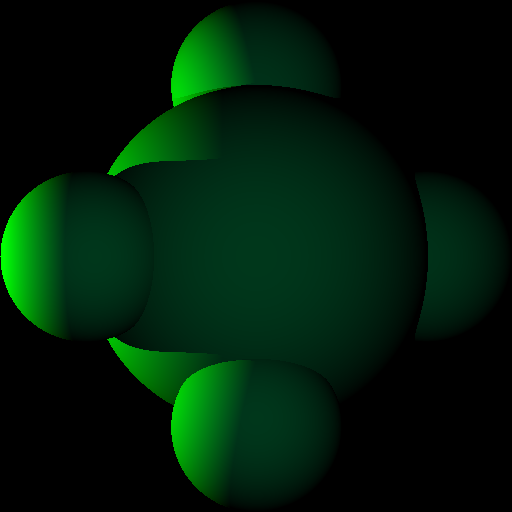
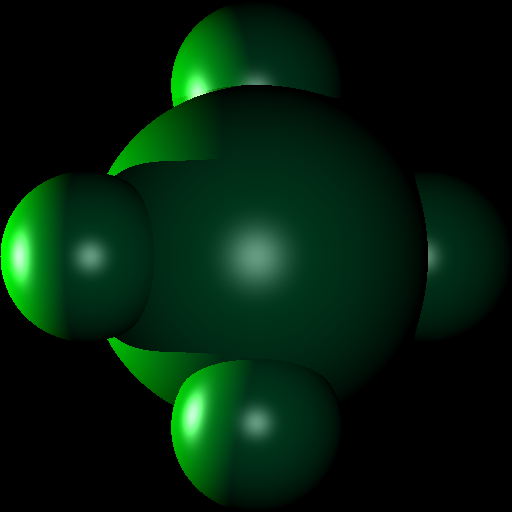
add specular lighting

diff --git a/src/org/krummelur/raytracer/Renderer.java b/src/org/krummelur/raytracer/Renderer.java
@@ -8,7 +8,7 @@ import java.io.IOException;
 
 public class Renderer {
 
-    private final double epsilon = 0.0001;
+    private final double epsilon = 0.00001;
     World world;
     int resolutionX = 512;
     int resolutionY = 512;
@@ -21,58 +21,77 @@ public class Renderer {
     }
 
     void render() {
-        long startTime = System.nanoTime();
-        for (int y = 0; y < resolutionY; y++)
-            for (int x = 0; x < resolutionX; x++) {
+        for (int iterations = 0; iterations < 10; iterations++) {
 
-                //calculate if the ray hit any object, and at what distance
-                Ray ray = new Ray(this.camera.location
-                        .add(this.camera.lookPlane.up.multiply((this.camera.orthogonalSize / 2) - ((double) (y) / (double) (resolutionY) * this.camera.orthogonalSize))
-                                .add(this.camera.lookPlane.right.multiply((this.camera.orthogonalSize / 2) - ((double) (x) / (double) (resolutionX) * this.camera.orthogonalSize)))),
-                        camera.direction);
+            long startTime = System.nanoTime();
+            for (int y = 0; y < resolutionY; y++)
+                for (int x = 0; x < resolutionX; x++) {
 
-                //Get closest point on the surface of an object in ray direction
-                Shape3d closestObject = null;
-                double closestHit = Integer.MAX_VALUE;
-                Vector3 surfaceColor = Vector3.ZERO();
-                for (Shape3d o : world.objects()) {
-                    double hit = o.hit(ray);
-                    if (hit != -1 && hit < closestHit) {
-                        closestHit = hit;
-                        closestObject = o;
+                    //calculate if the ray hit any object, and at what distance
+                    Ray cameraRay = new Ray(this.camera.location
+                            .add(this.camera.lookPlane.up.multiply((this.camera.orthogonalSize / 2) - ((double) (y) / (double) (resolutionY) * this.camera.orthogonalSize))
+                                    .add(this.camera.lookPlane.right.multiply((this.camera.orthogonalSize / 2) - ((double) (x) / (double) (resolutionX) * this.camera.orthogonalSize)))),
+                            camera.direction);
+
+                    //Get closest point on the surface of an object in ray direction
+                    Shape3d closestObject = null;
+                    double closestHit = Integer.MAX_VALUE;
+                    Vector3 surfaceColor = Vector3.ZERO();
+                    for (Shape3d o : world.objects()) {
+                        double hit = o.hit(cameraRay);
+                        if (hit != -1 && hit < closestHit) {
+                            closestHit = hit;
+                            closestObject = o;
+                        }
                     }
-                }
-                //if there was a hit calculate lighing
-                if (closestHit != Integer.MAX_VALUE) {
-                    for (Light l : world.lights()) {
-                        //first check if there is something obstruction the light ray
-                        Vector3 hitLocation = ray.travel(closestHit);
-                        boolean lightShadowed = false;
-                        double lightToSurfaceDistance = l.location.distance(hitLocation);
-                        Ray lightRay = new Ray(l.location, hitLocation.subtract(l.location).normalize());
-                        for (int i = 0; i < world.objects().size() && !lightShadowed; i++) {
-                            double hit = world.objects.get(i).hit(lightRay);
-                            if (hit != -1 && hit < lightToSurfaceDistance-epsilon) {
-                                lightShadowed = true;
+                    //if there was a hit calculate lighing
+                    if (closestHit != Integer.MAX_VALUE) {
+                        for (Light l : world.lights()) {
+                            //first check if there is something obstruction the light ray
+                            Vector3 hitLocation = cameraRay.travel(closestHit);
+                            boolean lightShadowed = false;
+                            double lightToSurfaceDistance = l.location.distance(hitLocation);
+                            Ray lightRay = new Ray(l.location, hitLocation.subtract(l.location).normalize());
+                            for (int i = 0; i < world.objects().size() && !lightShadowed; i++) {
+                                double hit = world.objects.get(i).hit(lightRay);
+                                if (hit != -1 && hit < lightToSurfaceDistance - epsilon) {
+                                    lightShadowed = true;
+                                }
+                            }
+
+                            if (!lightShadowed) {
+                                //start with diffuse light
+                                Vector3 surfaceNormal = closestObject.surfaceNormal(hitLocation);
+                                Vector3 lightToSurfaceNormal = hitLocation.subtract(l.location).normalize();
+                                double dot = -1 * surfaceNormal.dot(lightToSurfaceNormal);
+                                if (dot > 0) {
+                                    surfaceColor = surfaceColor.add(l.color.multiply(l.strength * 10 / hitLocation.distance(l.location)).multiply(dot));
+
+                                    //add specular light
+                                    Vector3 surfaceToCameraDir = hitLocation.subtract(cameraRay.origin).normalize();
+                                    Vector3 reflectionDirection = lightToSurfaceNormal.reflect(surfaceNormal).normalize();
+                                    double specular = -1 * surfaceToCameraDir.dot(reflectionDirection);
+                                    if (specular > 0) {
+                                        specular = Math.abs(specular);
+                                        specular = Math.pow(specular, 15);
+                                        specular *= 2;
+                                        surfaceColor = surfaceColor.add(new Vector3(specular, specular, specular).multiply(l.strength));
+                                    }
+
+                                }
+
+
                             }
                         }
 
-
-                        if (!lightShadowed) {
-                            Vector3 surfaceNormal = closestObject.surfaceNormal(hitLocation);
-                            Vector3 lightToSurfaceNormal = hitLocation.subtract(l.location).normalize();
-                            double dot = -1 * surfaceNormal.dot(lightToSurfaceNormal);
-                            if (dot > 0) {
-                                surfaceColor = surfaceColor.add(l.color.multiply(l.strength * 10 / hitLocation.distance(l.location)).multiply(dot)).clampMaximum(255);
-                            }
-                        }
+                        surfaceColor = surfaceColor.clampMaximum(255);
+                        image[resolutionX * y + x] = new Color((int) (surfaceColor.x), (int) (surfaceColor.y), (int) (surfaceColor.z)).getRGB();
+                        //world.objects.forEach();
                     }
-                    image[resolutionX * y + x] = new Color((int) (surfaceColor.x), (int) (surfaceColor.y), (int) (surfaceColor.z)).getRGB();
-                    //world.objects.forEach();
                 }
-            }
-        long endTime = System.nanoTime();
-        System.out.println((endTime - startTime) / 1000000);
+            long endTime = System.nanoTime();
+            System.out.println((endTime - startTime) / 1000000);
+        }
 
         BufferedImage testImage = new BufferedImage(resolutionY, resolutionX, BufferedImage.TYPE_INT_RGB);
         testImage.setRGB(0, 0, resolutionX, resolutionY, image, 0, resolutionX);

diff --git a/src/org/krummelur/raytracer/Vector3.java b/src/org/krummelur/raytracer/Vector3.java
@@ -1,84 +1,89 @@
 package org.krummelur.raytracer;
 
 public class Vector3 {
-	double x,y,z;
+    double x, y, z;
 
-	public static Vector3 ZERO() {
-		return new Vector3();
-	}
-
-	private Vector3() {
-		this.x = 0;
-		this.y = 0;
-		this.z = 0;
-	}
-
-	public Vector3(double x, double y, double z) {
-		this.x = x;
-		this.y = y;
-		this.z = z;
-	}
-
-	public Vector3 add(Vector3 other) {
-		return new Vector3(this.x+other.x, this.y+other.y, this.z+other.z);
-	}
-	
-	public Vector3 subtract(Vector3 other) {
-		return new Vector3(this.x-other.x, this.y-other.y, this.z-other.z);
-	}
-
-	public double distance(Vector3 other) {
-		return Math.sqrt(distanceSquared(other));
-	}
-
-	public double distanceSquared(Vector3 other) {
-		Vector3 delta = subtract(other);
-		double edge1Sqrd = (delta.y*delta.y) + (delta.z*delta.z);
-		return (delta.x*delta.x) + edge1Sqrd;
-		//return edge1Sqrd + edge2Sqrd;
-	}
-
-	public double dot(Vector3 other) {
-		return this.x*other.x + this.y*other.y + this.z*other.z;
-	}
-
-	boolean equals(Vector3 other) {
-		return this.x == other.x && this.y == other.y && this.z == other.z;
-	}
-
-	public Vector3 divide(double d) {
-		return new Vector3(this.x/d, this.y/d, this.z/d);
-	}
-
-	public Vector3 normalize() {
-		return divide(distance(Vector3.ZERO()));
-	}
-
-	@Override
-	public String toString() {
-		return "{" + x+ ", " + ", " + y + ", " + ", " + z +"}";
-	}
-
-	public Vector3 multiply(Vector3 other) {
-	    return new Vector3(this.x*other.x, this.y*other.y, this.z*other.z);
+    public static Vector3 ZERO() {
+        return new Vector3();
     }
 
-	Vector3 cross(Vector3 other) {
-		return new Vector3(
-				this.y*other.z - this.z*other.y,
-				this.z*other.x - this.x*other.z,
-				this.x*other.y - this.y*other.x);
-	}
+    private Vector3() {
+        this.x = 0;
+        this.y = 0;
+        this.z = 0;
+    }
+
+    public Vector3(double x, double y, double z) {
+        this.x = x;
+        this.y = y;
+        this.z = z;
+    }
+
+    public Vector3 add(Vector3 other) {
+        return new Vector3(this.x + other.x, this.y + other.y, this.z + other.z);
+    }
+
+    public Vector3 subtract(Vector3 other) {
+        return new Vector3(this.x - other.x, this.y - other.y, this.z - other.z);
+    }
+
+    public double distance(Vector3 other) {
+        return Math.sqrt(distanceSquared(other));
+    }
+
+    public double distanceSquared(Vector3 other) {
+        Vector3 delta = subtract(other);
+        double edge1Sqrd = (delta.y * delta.y) + (delta.z * delta.z);
+        return (delta.x * delta.x) + edge1Sqrd;
+        //return edge1Sqrd + edge2Sqrd;
+    }
+
+    public double dot(Vector3 other) {
+        return this.x * other.x + this.y * other.y + this.z * other.z;
+    }
+
+    boolean equals(Vector3 other) {
+        return this.x == other.x && this.y == other.y && this.z == other.z;
+    }
+
+    public Vector3 divide(double d) {
+        return new Vector3(this.x / d, this.y / d, this.z / d);
+    }
+
+    public Vector3 normalize() {
+        return divide(distance(Vector3.ZERO()));
+    }
+
+    @Override
+    public String toString() {
+        return "{" + x + ", " + ", " + y + ", " + ", " + z + "}";
+    }
+
+    public Vector3 multiply(Vector3 other) {
+        return new Vector3(this.x * other.x, this.y * other.y, this.z * other.z);
+    }
+
+    Vector3 cross(Vector3 other) {
+        return new Vector3(
+                this.y * other.z - this.z * other.y,
+                this.z * other.x - this.x * other.z,
+                this.x * other.y - this.y * other.x);
+    }
 
     public Vector3 multiply(double d) {
-        return new Vector3(this.x*d, this.y*d, this.z*d);
-	}
+        return new Vector3(this.x * d, this.y * d, this.z * d);
+    }
 
-	public Vector3 clampNegative() {
-	    return new Vector3(Math.max(this.x, 0), Math.max(this.y, 0), Math.max(this.z, 0));
+    public Vector3 clampNegative() {
+        return new Vector3(Math.max(this.x, 0), Math.max(this.y, 0), Math.max(this.z, 0));
     }
 
     public Vector3 clampMaximum(double max) {
         return new Vector3(Math.min(this.x, max), Math.min(this.y, max), Math.min(this.z, max));
     }
+
+    public Vector3 reflect(Vector3 n) {
+        return this.subtract(n.multiply(this.dot(n)).multiply(2));
+    }
+
 }
